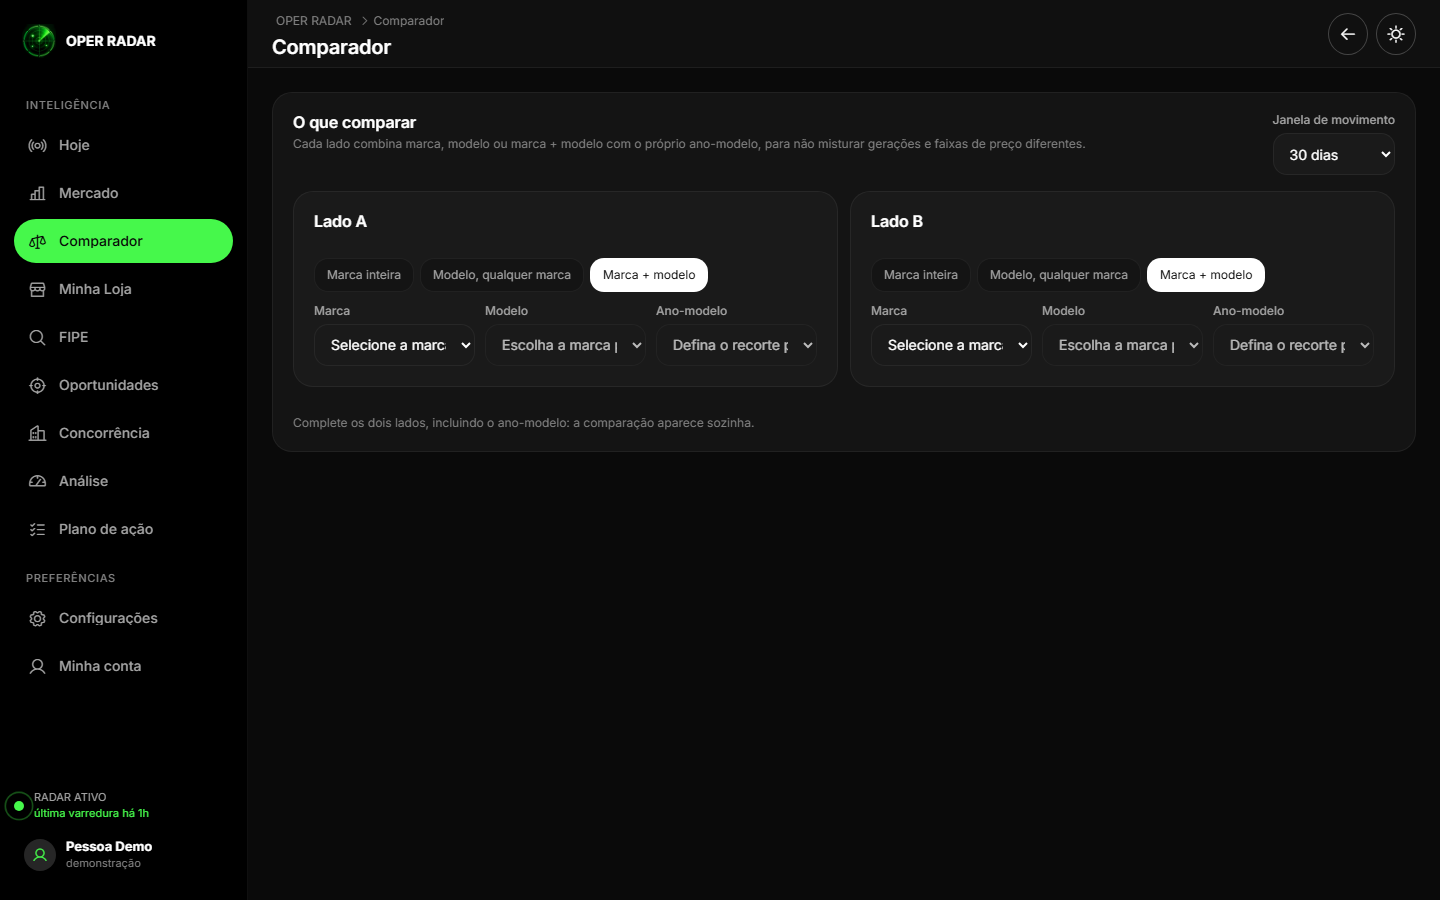
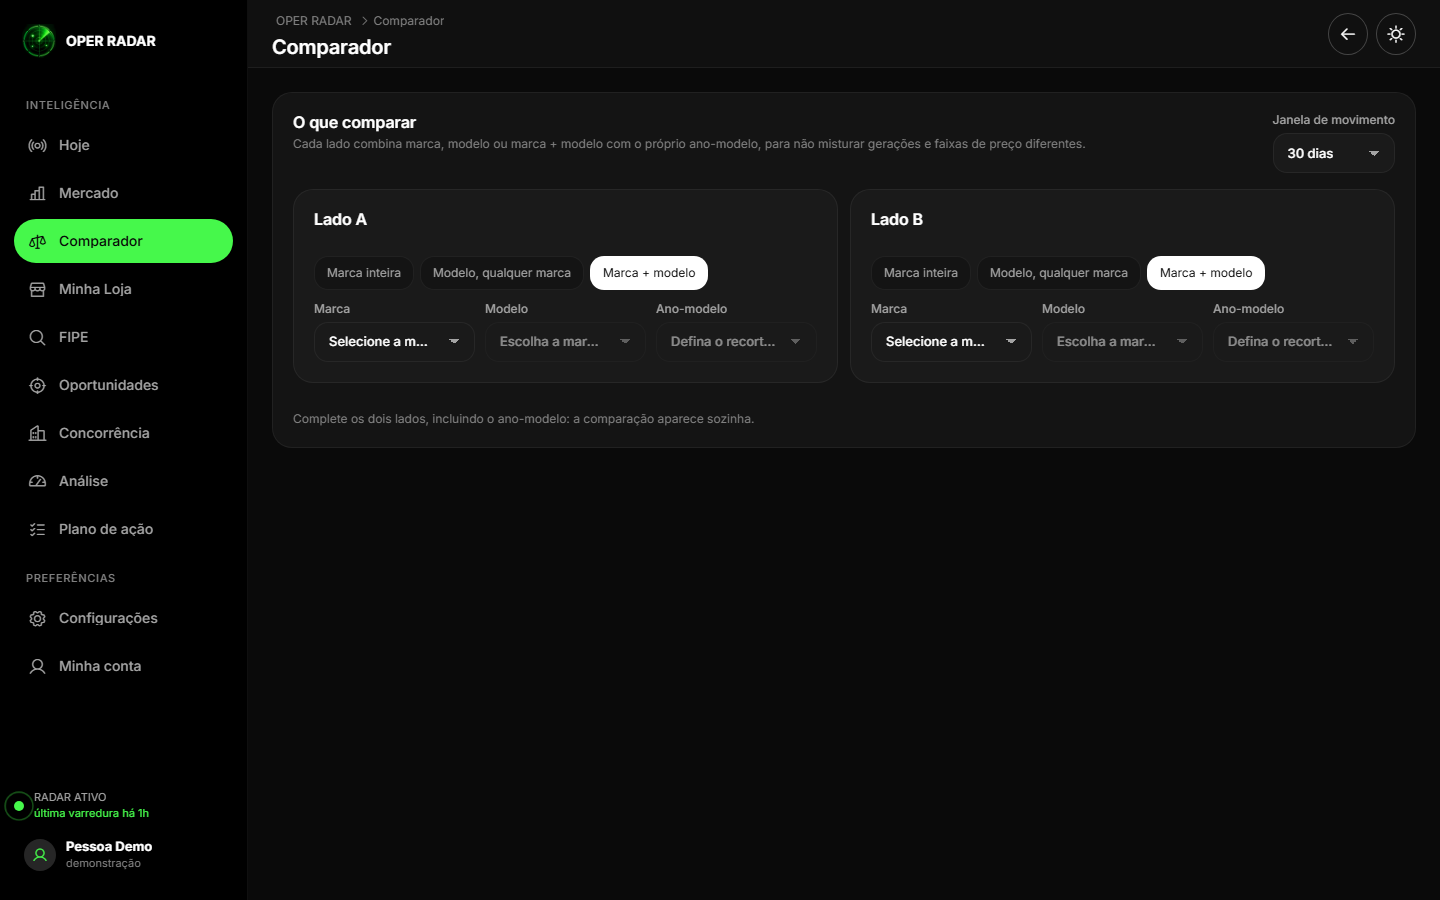
feat(ui): select no padrao do design system

diff --git a/app/src/App.jsx b/app/src/App.jsx
@@ -604,6 +604,9 @@ const inputStyle = {
   boxSizing: 'border-box', maxWidth: '100%',
 };
 
+/* Select: acabamento vem do CSS global (theme.css, regra select). Inline so o que for de layout. */
+const selectStyle = { maxWidth: '100%' };
+
 const filtroGridRegiaoStyle = { display: 'grid', gridTemplateColumns: 'repeat(auto-fit, minmax(min(100%, 122px), 1fr))', gap: 7 };
 const filtroGridUfStyle = { display: 'grid', gridTemplateColumns: 'repeat(auto-fit, minmax(min(100%, 92px), 1fr))', gap: 7 };
 const filtroGridSegmentoStyle = { display: 'grid', gridTemplateColumns: 'repeat(auto-fit, minmax(min(100%, 138px), 1fr))', gap: 7 };
@@ -1047,14 +1050,14 @@ function PainelMercadoAnalitico({ contexto, onContexto, visivel, onAlternar }) {
       <div style={{ display: 'grid', gridTemplateColumns: 'repeat(auto-fit, minmax(180px, 1fr))', gap: 10 }}>
         <label>
           <div style={rotuloFiltroStyle}>SEGMENTO</div>
-          <select value={contexto?.segmento || 'todas'} onChange={e => atualiza({ segmento: e.target.value })} style={{ ...inputStyle, width: '100%' }}>
+          <select value={contexto?.segmento || 'todas'} onChange={e => atualiza({ segmento: e.target.value })} style={{ ...selectStyle, width: '100%' }}>
             <option value="todas">Caminhões e implementos</option>
             {categoriasDoMercado('principal').map(cat => <option key={cat} value={cat}>{CATEGORIAS_MERCADO[cat]?.label || cat}</option>)}
           </select>
         </label>
         <label>
           <div style={rotuloFiltroStyle}>PERÍODO</div>
-          <select value={periodo} onChange={selecionaPeriodo} style={{ ...inputStyle, width: '100%' }}>
+          <select value={periodo} onChange={selecionaPeriodo} style={{ ...selectStyle, width: '100%' }}>
             <option value="7d">Últimos 7 dias</option><option value="30d">Últimos 30 dias</option><option value="90d">Últimos 90 dias</option><option value="180d">Últimos 180 dias</option><option value="12m">Últimos 12 meses</option>
           </select>
         </label>
@@ -1504,7 +1507,7 @@ function PageMercado({ sessao, contexto, onContexto }) {
 
       <div style={{ ...rotuloFiltroStyle, marginTop: 2 }}>REFINAR OFERTAS</div>
       <div style={{ display: 'flex', gap: 8, marginBottom: 8, flexWrap: 'wrap' }}>
-        <select aria-label="Ordenar anúncios" value={ordem} onChange={e => setOrdem(e.target.value)} style={{ ...inputStyle, flex: '1 1 190px' }}>
+        <select aria-label="Ordenar anúncios" value={ordem} onChange={e => setOrdem(e.target.value)} style={{ ...selectStyle, flex: '1 1 190px' }}>
           <option value="aleatorio">Amostra do mercado</option>
           <option value="recente">Mais recentes</option>
           <option value="preco_asc">Menor preço</option>
@@ -1524,40 +1527,40 @@ function PageMercado({ sessao, contexto, onContexto }) {
 
       {maisFiltros && (
         <Card id="mercado-filtros-avancados" style={{ padding: 14, marginBottom: 8, display: 'grid', gridTemplateColumns: 'repeat(auto-fit, minmax(160px, 1fr))', gap: 8 }}>
-          {filtrosDisponiveis.includes('tipo') && <select aria-label="Subtipo do veículo" value={tipo} onChange={e => setTipo(e.target.value)} style={inputStyle}>
+          {filtrosDisponiveis.includes('tipo') && <select aria-label="Subtipo do veículo" value={tipo} onChange={e => setTipo(e.target.value)} style={selectStyle}>
             <option value="todos">{categoria === 'todas' ? 'Escolha uma categoria' : 'Todos os subtipos'}</option>
             {subtipos.map(s => <option key={s.tipo} value={s.tipo}>{rotuloTipo(s.tipo)} ({s.n})</option>)}
           </select>}
-          {filtrosDisponiveis.includes('marca') && <select aria-label="Marca" value={marca} onChange={e => setMarca(e.target.value)} style={inputStyle}>
+          {filtrosDisponiveis.includes('marca') && <select aria-label="Marca" value={marca} onChange={e => setMarca(e.target.value)} style={selectStyle}>
             <option value="todas">Todas as marcas</option>
             {opcoesMarca.map(item => <option key={item.valor} value={item.valor}>{item.valor} ({fmtN(item.n)})</option>)}
           </select>}
-          {filtrosDisponiveis.includes('carroceria') && <select aria-label="Carroceria ou configuração" value={carroceria} onChange={e => setCarroceria(e.target.value)} style={inputStyle}>
+          {filtrosDisponiveis.includes('carroceria') && <select aria-label="Carroceria ou configuração" value={carroceria} onChange={e => setCarroceria(e.target.value)} style={selectStyle}>
             <option value="todas">Todas as carrocerias</option>
             {opcoesCarroceria.map(item => <option key={item.valor} value={item.valor}>{item.valor} ({fmtN(item.n)})</option>)}
           </select>}
-          {filtrosDisponiveis.includes('tracao') && <select aria-label="Tração ou configuração de eixos" value={tracao} onChange={e => setTracao(e.target.value)} style={inputStyle}>
+          {filtrosDisponiveis.includes('tracao') && <select aria-label="Tração ou configuração de eixos" value={tracao} onChange={e => setTracao(e.target.value)} style={selectStyle}>
             <option value="todas">Todas as trações</option>
             {opcoesTracao.map(item => <option key={item.valor} value={item.valor}>{item.valor} ({fmtN(item.n)})</option>)}
           </select>}
-          <select aria-label="Situação do anúncio" value={status} onChange={e => setStatus(e.target.value)} style={inputStyle}>
+          <select aria-label="Situação do anúncio" value={status} onChange={e => setStatus(e.target.value)} style={selectStyle}>
             <option value="ativo">No mercado</option>
             <option value="em_verificacao">Em verificação</option>
             <option value="saida_detectada">Saídas detectadas</option>
             <option value="todos">Todos (histórico)</option>
           </select>
-          {filtrosDisponiveis.includes('fipe') && <select aria-label="Situação do vínculo FIPE" value={fipeFila} onChange={e => setFipeFila(e.target.value)} style={inputStyle}>
+          {filtrosDisponiveis.includes('fipe') && <select aria-label="Situação do vínculo FIPE" value={fipeFila} onChange={e => setFipeFila(e.target.value)} style={selectStyle}>
             <option value="todos">FIPE · todos</option>
             <option value="revisar">FIPE · precisa revisar</option>
             <option value="com_sugestao">FIPE · com sugestão</option>
             <option value="sem_sugestao">FIPE · dados insuficientes</option>
             <option value="vinculado">FIPE · vinculados</option>
           </select>}
-          <select aria-label="Cidade" value={cidade} onChange={e => setCidade(e.target.value)} style={inputStyle} disabled={uf === 'todas'}>
+          <select aria-label="Cidade" value={cidade} onChange={e => setCidade(e.target.value)} style={selectStyle} disabled={uf === 'todas'}>
             <option value="todas">{uf === 'todas' ? 'Escolha um estado primeiro' : `Todas as cidades de ${uf}`}</option>
             {cidades.map(c => <option key={`${c.uf}-${c.cidade}`} value={c.cidade}>{c.cidade} ({fmtN(c.n)})</option>)}
           </select>
-          <select aria-label="Revenda" value={revendaId} onChange={e => setRevendaId(e.target.value)} style={inputStyle} disabled={uf === 'todas'}>
+          <select aria-label="Revenda" value={revendaId} onChange={e => setRevendaId(e.target.value)} style={selectStyle} disabled={uf === 'todas'}>
             <option value="todas">{uf === 'todas' ? 'Escolha um estado primeiro' : `Todas as revendas de ${uf}`}</option>
             {revendas.map(r => <option key={r.id} value={String(r.id)}>{r.nome} · {r.cidade} ({fmtN(r.n)})</option>)}
           </select>
@@ -1966,28 +1969,28 @@ function PageFipeCatalogo() {
         <div style={{ display: 'grid', gridTemplateColumns: 'repeat(auto-fit, minmax(min(100%, 190px), 1fr))', gap: 10 }}>
           <label>
             <div style={rotuloFiltroStyle}>MARCA</div>
-            <select value={marca} onChange={e => { setMarca(e.target.value); setModeloId('todos'); setAno('todos'); }} style={{ ...inputStyle, width: '100%' }}>
+            <select value={marca} onChange={e => { setMarca(e.target.value); setModeloId('todos'); setAno('todos'); }} style={{ ...selectStyle, width: '100%' }}>
               <option value="todas">Todas as marcas</option>
               {(facetas?.marcas || []).map(item => <option key={item.marca} value={item.marca}>{item.marca} · {fmtN(item.modelos)}</option>)}
             </select>
           </label>
           <label>
             <div style={rotuloFiltroStyle}>MODELO / VERSÃO</div>
-            <select value={modeloId} disabled={marca === 'todas'} onChange={e => { setModeloId(e.target.value); setAno('todos'); }} style={{ ...inputStyle, width: '100%', opacity: marca === 'todas' ? 0.5 : 1 }}>
+            <select value={modeloId} disabled={marca === 'todas'} onChange={e => { setModeloId(e.target.value); setAno('todos'); }} style={{ ...selectStyle, width: '100%', opacity: marca === 'todas' ? 0.5 : 1 }}>
               <option value="todos">Todos os modelos</option>
               {(facetas?.modelos || []).map(item => <option key={item.id} value={item.id}>{item.modelo}</option>)}
             </select>
           </label>
           <label>
             <div style={rotuloFiltroStyle}>ANO MODELO</div>
-            <select value={ano} disabled={modeloId === 'todos'} onChange={e => setAno(e.target.value)} style={{ ...inputStyle, width: '100%', opacity: modeloId === 'todos' ? 0.5 : 1 }}>
+            <select value={ano} disabled={modeloId === 'todos'} onChange={e => setAno(e.target.value)} style={{ ...selectStyle, width: '100%', opacity: modeloId === 'todos' ? 0.5 : 1 }}>
               <option value="todos">Todos os anos</option>
               {(facetas?.anos || []).map(item => <option key={item} value={item}>{item}</option>)}
             </select>
           </label>
           <label>
             <div style={rotuloFiltroStyle}>ORDENAR</div>
-            <select value={ordem} onChange={e => setOrdem(e.target.value)} style={{ ...inputStyle, width: '100%' }}>
+            <select value={ordem} onChange={e => setOrdem(e.target.value)} style={{ ...selectStyle, width: '100%' }}>
               <option value="mercado">Mais presentes no radar</option>
               <option value="modelo">Marca e modelo</option>
               <option value="ano_desc">Ano mais recente</option>
@@ -2264,6 +2267,7 @@ function PainelMeuVeiculo({ itemInicial, sessao, onClose, onSalvo, onCriarAcao }
   const deltaMercado = mercado?.amostra_suficiente && mercado?.preco_mediano > 0 && precoAtual > 0 ? Math.round((precoAtual / mercado.preco_mediano - 1) * 1000) / 10 : null;
   const abas = [['cadastro', 'Cadastro'], ['mercado', 'Mercado nacional'], ['regioes', `Regiões · ${regioes.length}`]];
   const campoStyle = { ...inputStyle, width: '100%' };
+  const campoSelectStyle = { ...selectStyle, width: '100%' };
   // Nome e flag de "desatualizada" usam dados.item (o veículo que a API de fato analisou), nunca o rascunho em
   // edição — senão um preço/UF trocado na tela sem salvar criaria uma ação com o nome novo e o número antigo
   // (achado do Codex). A orientação só é reativada depois de salvar, quando dados.item reflete o rascunho.
@@ -2297,9 +2301,9 @@ function PainelMeuVeiculo({ itemInicial, sessao, onClose, onSalvo, onCriarAcao }
             <CampoMeuVeiculo rotulo="Ano"><input type="number" min="1950" max="2030" value={rascunho.ano || ''} onChange={e => alteraIdentificacao('ano', e.target.value)} style={{ ...campoStyle, marginTop: 5 }} /></CampoMeuVeiculo>
             <CampoMeuVeiculo rotulo="Preço anunciado"><input type="number" min="0" step="1000" value={rascunho.preco_anunciado || ''} onChange={e => setRascunho(v => ({ ...v, preco_anunciado: e.target.value }))} style={{ ...campoStyle, marginTop: 5 }} /></CampoMeuVeiculo>
             <CampoMeuVeiculo rotulo="Cidade"><input value={rascunho.cidade || ''} onChange={e => setRascunho(v => ({ ...v, cidade: e.target.value }))} style={{ ...campoStyle, marginTop: 5 }} /></CampoMeuVeiculo>
-            <CampoMeuVeiculo rotulo="UF"><select value={rascunho.uf || ''} onChange={e => setRascunho(v => ({ ...v, uf: e.target.value }))} style={{ ...campoStyle, marginTop: 5 }}><option value="">UF</option>{Object.keys(NOMES_UF).sort().map(uf => <option key={uf}>{uf}</option>)}</select></CampoMeuVeiculo>
+            <CampoMeuVeiculo rotulo="UF"><select value={rascunho.uf || ''} onChange={e => setRascunho(v => ({ ...v, uf: e.target.value }))} style={{ ...campoSelectStyle, marginTop: 5 }}><option value="">UF</option>{Object.keys(NOMES_UF).sort().map(uf => <option key={uf}>{uf}</option>)}</select></CampoMeuVeiculo>
             <CampoMeuVeiculo rotulo="Entrada no estoque"><input type="date" value={rascunho.data_entrada || ''} onChange={e => setRascunho(v => ({ ...v, data_entrada: e.target.value }))} style={{ ...campoStyle, marginTop: 5 }} /></CampoMeuVeiculo>
-            <CampoMeuVeiculo rotulo="Status"><select value={rascunho.status} onChange={e => setRascunho(v => ({ ...v, status: e.target.value }))} style={{ ...campoStyle, marginTop: 5 }}><option value="estoque">No estoque</option><option value="reservado">Reservado</option><option value="vendido">Vendido</option></select></CampoMeuVeiculo>
+            <CampoMeuVeiculo rotulo="Status"><select value={rascunho.status} onChange={e => setRascunho(v => ({ ...v, status: e.target.value }))} style={{ ...campoSelectStyle, marginTop: 5 }}><option value="estoque">No estoque</option><option value="reservado">Reservado</option><option value="vendido">Vendido</option></select></CampoMeuVeiculo>
           </div><label style={{ display: 'flex', gap: 8, marginTop: 13, fontSize: 11.5 }}><input type="checkbox" checked={Boolean(Number(rascunho.usar_comparativo))} onChange={e => setRascunho(v => ({ ...v, usar_comparativo: e.target.checked ? 1 : 0 }))} /><span><strong>Usar nos comparativos internos</strong><br /><span style={{ color: T.inkMuted }}>O preço participa somente da área autenticada.</span></span></label></Card>
           <Card style={{ padding: 14 }}>
             <strong style={{ fontSize: 12.5 }}>Referência FIPE</strong>
@@ -2513,7 +2517,7 @@ function PageMinhaLoja({ sessao, onCriarAcao }) {
         <input aria-label="Ano do veículo" type="number" min="1950" max="2030" value={form.ano} onChange={e => { setForm(f => ({ ...f, ano: e.target.value })); setComparacao(null); setOpcoesFipeNovo([]); }} style={inputStyle} placeholder="Ano" />
         <input aria-label="Preço anunciado" type="number" min="0" step="1000" value={form.preco_anunciado} onChange={e => setForm(f => ({ ...f, preco_anunciado: e.target.value }))} style={inputStyle} placeholder="Preço anunciado" />
         <input aria-label="Cidade do veículo" value={form.cidade} onChange={e => setForm(f => ({ ...f, cidade: e.target.value }))} style={inputStyle} placeholder="Cidade" />
-        <select aria-label="Estado do veículo" value={form.uf} onChange={e => setForm(f => ({ ...f, uf: e.target.value }))} style={inputStyle}><option value="">UF</option>{Object.keys(NOMES_UF).sort().map(uf => <option key={uf}>{uf}</option>)}</select>
+        <select aria-label="Estado do veículo" value={form.uf} onChange={e => setForm(f => ({ ...f, uf: e.target.value }))} style={selectStyle}><option value="">UF</option>{Object.keys(NOMES_UF).sort().map(uf => <option key={uf}>{uf}</option>)}</select>
         <input aria-label="Data de entrada no estoque" type="date" value={form.data_entrada} onChange={e => setForm(f => ({ ...f, data_entrada: e.target.value }))} style={inputStyle} />
       </div>
       <div style={{ display: 'flex', gap: 8, alignItems: 'center', flexWrap: 'wrap', marginTop: 13 }}>
@@ -2534,10 +2538,10 @@ function PageMinhaLoja({ sessao, onCriarAcao }) {
     <SectionTitle sub="Preço próprio versus mediana do mercado nacional e FIPE, com a evidência de cada número">Seus veículos</SectionTitle>
     <Card style={{ padding: 12, marginBottom: 12, display: 'grid', gridTemplateColumns: 'repeat(auto-fit, minmax(min(100%, 170px), 1fr))', gap: 8 }}>
       <input aria-label="Buscar no estoque" value={buscaEstoque} onChange={e => setBuscaEstoque(e.target.value)} placeholder="Buscar marca, modelo ou referência..." style={{ ...inputStyle, width: '100%' }} />
-      <select aria-label="Filtrar estoque por status" value={statusEstoque} onChange={e => setStatusEstoque(e.target.value)} style={inputStyle}>
+      <select aria-label="Filtrar estoque por status" value={statusEstoque} onChange={e => setStatusEstoque(e.target.value)} style={selectStyle}>
         <option value="todos">Todos os status</option><option value="estoque">No estoque</option><option value="reservado">Reservados</option><option value="vendido">Vendidos</option>
       </select>
-      <select aria-label="Ordenar estoque" value={ordemEstoque} onChange={e => setOrdemEstoque(e.target.value)} style={inputStyle}>
+      <select aria-label="Ordenar estoque" value={ordemEstoque} onChange={e => setOrdemEstoque(e.target.value)} style={selectStyle}>
         <option value="posicao">Posição no mercado</option><option value="recente">Entrada mais recente</option><option value="antigo">Entrada mais antiga</option><option value="modelo">Marca e modelo</option><option value="preco_asc">Menor preço</option><option value="preco_desc">Maior preço</option>
       </select>
     </Card>

diff --git a/app/src/theme.css b/app/src/theme.css
@@ -60,8 +60,41 @@ circle:focus-visible {
   outline-offset: 2px;
 }
 
+/* Select no acabamento do .or-input do design system (40px, raio md, surface-2, seta propria).
+   Comportamento nativo preservado: teclado e seletor do celular. */
 select {
   max-width: 100%;
+  appearance: none;
+  -webkit-appearance: none;
+  /* mesma altura dos inputs do app (42px), para alinhar lado a lado */
+  height: var(--or-control-min-height);
+  min-height: var(--or-control-min-height);
+  padding: 0 40px 0 14px;
+  border: 1px solid var(--border-subtle);
+  border-radius: var(--radius-md);
+  background-color: var(--surface-2);
+  background-image:
+    linear-gradient(45deg, transparent 50%, var(--text-secondary) 50%),
+    linear-gradient(135deg, var(--text-secondary) 50%, transparent 50%);
+  background-position: calc(100% - 20px) 50%, calc(100% - 15px) 50%;
+  background-size: 5px 5px, 5px 5px;
+  background-repeat: no-repeat;
+  color: var(--text-primary);
+  font: 500 var(--fs-sm) / 1.2 var(--font-sans);
+  text-overflow: ellipsis;
+  cursor: pointer;
+  transition: border-color var(--dur-fast) var(--ease-out);
+}
+select:hover:not(:disabled) {
+  border-color: var(--border-default);
+}
+select:disabled {
+  opacity: 0.5;
+  cursor: not-allowed;
+}
+select option {
+  background: var(--surface-1);
+  color: var(--text-primary);
 }
 
 .or-card-density {
@@ -253,7 +286,7 @@ select {
 .oc-conc__controls { display:flex; gap:10px; flex-wrap:wrap; }
 .oc-conc__controls label.oc-conc__legacy { display:flex; align-items:center; gap:8px; flex:1 1 240px; padding:0 12px; background:var(--surface-2); border:1px solid var(--border-subtle); border-radius:var(--radius-md); }
 .oc-conc__controls input { width:100%; min-width:0; border:0; background:transparent; color:var(--text-primary); font:inherit; }
-.oc-conc__controls select,.oc-conc__sort select { min-height:42px; padding:0 12px; border:1px solid var(--border-subtle); border-radius:var(--radius-md); background:var(--surface-2); color:var(--text-primary); font:inherit; }
+.oc-conc__controls select,.oc-conc__sort select { width:100%; }
 .oc-conc__controls select { flex:none; width:100%; }
 .oc-conc__metrics { display:grid; grid-template-columns:repeat(auto-fit,minmax(min(100%,190px),1fr)); gap:10px; }
 .oc-conc__metrica { gap:8px; }
@@ -945,7 +978,7 @@ select {
 .oc-loja__cartao { display: flex; flex-direction: column; gap: 12px; min-width: 0; }
 .oc-loja__topo, .oc-loja__linha-preco, .oc-loja__rodape { display: flex; align-items: center; justify-content: space-between; gap: 8px; flex-wrap: wrap; }
 .oc-loja__controles { display: flex; align-items: center; gap: 6px; }
-.oc-loja__status { min-height: 32px; padding: 0 8px; border: 1px solid var(--border-subtle); border-radius: var(--radius-md); background: var(--surface-2); color: var(--text-primary); font: inherit; font-size: 12px; }
+.oc-loja__status { height: var(--control-sm); min-height: var(--control-sm); padding: 0 32px 0 10px; border-radius: var(--radius-sm); background-position: calc(100% - 16px) 50%, calc(100% - 11px) 50%; font-size: var(--fs-xs); }
 .oc-loja__dados { display: grid; grid-template-columns: repeat(2, minmax(0, 1fr)); gap: 10px; }
 .oc-loja__dado { display: flex; flex-direction: column; gap: 2px; min-width: 0; overflow-wrap: anywhere; }
 .oc-loja__preco { font: var(--type-kpi); }
@@ -958,7 +991,7 @@ select {
 .oc-cmp__modo { min-height: 34px; padding: 0 12px; border: 1px solid var(--border-subtle); border-radius: var(--radius-md); background: var(--surface-1); color: var(--text-secondary); font: inherit; font-size: 12px; cursor: pointer; }
 .oc-cmp__modo.is-on { border-color: transparent; color: var(--text-inverse); background: var(--surface-inverse); }
 .oc-cmp__campos { display: grid; grid-template-columns: repeat(auto-fit, minmax(min(100%, 150px), 1fr)); gap: 10px; }
-.oc-cmp__select { width: 100%; min-height: 42px; padding: 0 12px; border: 1px solid var(--border-subtle); border-radius: var(--radius-md); background: var(--surface-2); color: var(--text-primary); font: inherit; }
+.oc-cmp__select { width: 100%; }
 .oc-cmp__resultado { display: flex; flex-direction: column; gap: 14px; }
 .oc-cmp__tabela { display: flex; flex-direction: column; gap: 0; padding: 4px 16px; }
 .oc-cmp__linha { display: grid; grid-template-columns: minmax(130px, 1fr) minmax(0, 1.4fr) minmax(0, 1.4fr); gap: 12px; padding: 10px 0; border-top: 1px solid var(--border-subtle); align-items: baseline; overflow-wrap: anywhere; }
